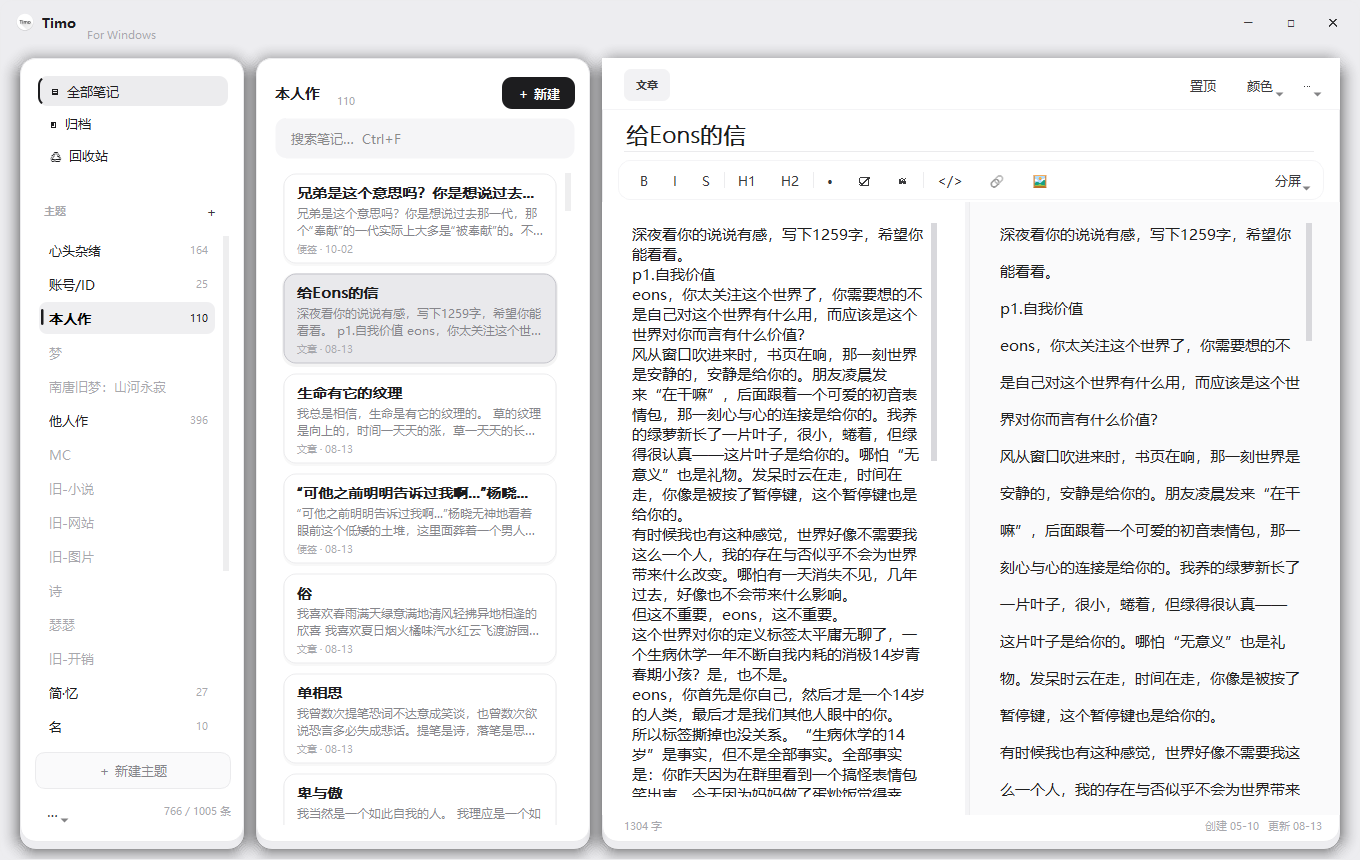
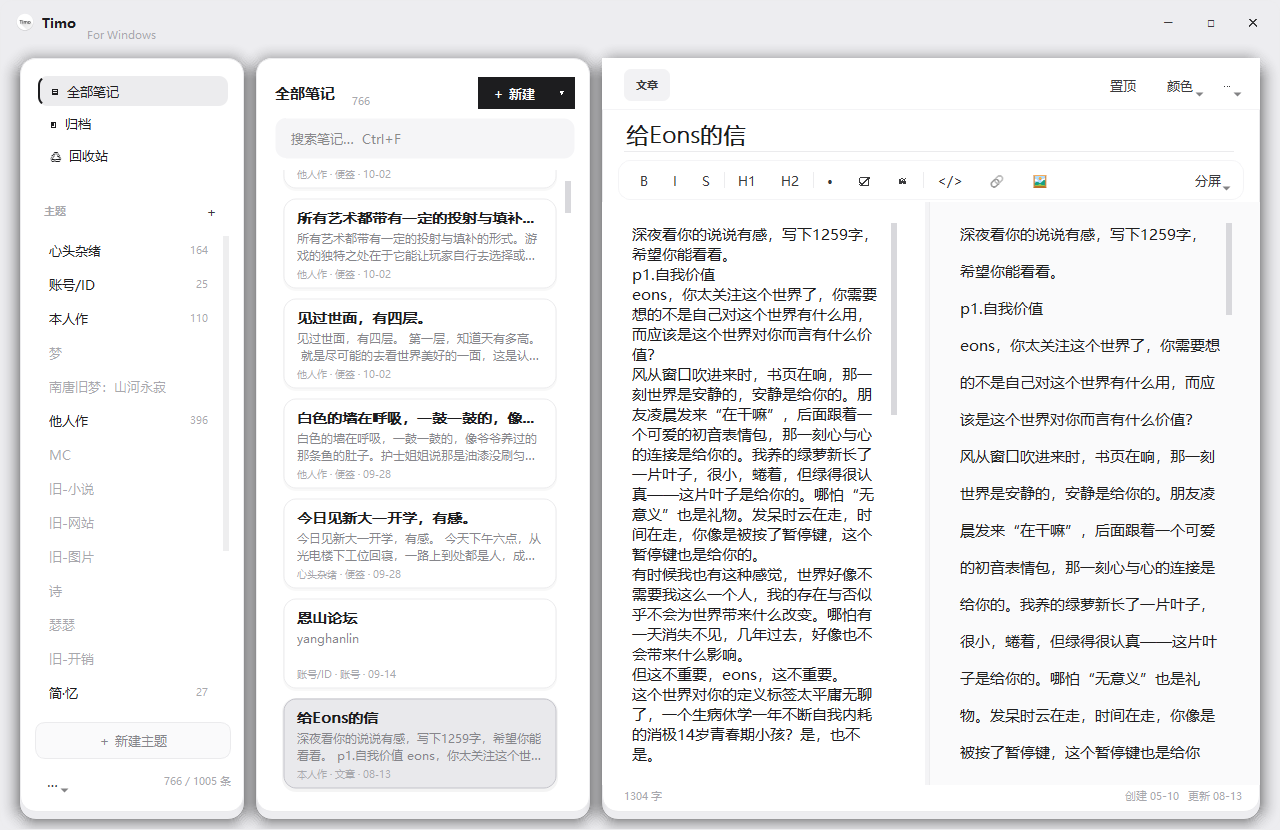
修复：切换视图后列表回到顶部、空状态清空底部字数与时间；更新 README 截图

diff --git a/tools/shot-docs.py b/tools/shot-docs.py
@@ -1,0 +1,41 @@
+"""生成 README 用的界面截图（需要本机有示例数据）。"""
+import sys
+from PyQt5.QtCore import Qt, QTimer
+from PyQt5.QtWidgets import QApplication
+
+sys.path.insert(0, ".")
+from timodesk.store import Library
+from timodesk.ui.theme import app_qss
+from timodesk.ui.main_window import MainWindow
+
+QApplication.setAttribute(Qt.AA_EnableHighDpiScaling, True)
+app = QApplication(sys.argv)
+app.setStyle("Fusion")
+app.setStyleSheet(app_qss())
+lib = Library(r"D:/桌面/Timo For Windows/Data").load()
+w = MainWindow(lib)
+w.resize(1280, 830)
+w.show()
+
+TARGET = "d072305b-afd5-4cb2-9363-901070a7e551"
+
+
+def pick():
+    w.select_nav("all")
+    for i in range(w.note_list.count()):
+        if w.note_list.item(i).data(Qt.UserRole) == TARGET:
+            w.note_list.setCurrentRow(i)
+            break
+
+
+def archived():
+    w.select_nav("archived")
+
+
+QTimer.singleShot(500, pick)
+QTimer.singleShot(1500, lambda: w.grab().save("docs/screenshot-main.png"))
+QTimer.singleShot(1700, archived)
+QTimer.singleShot(2600, lambda: w.grab().save("docs/screenshot-archived.png"))
+QTimer.singleShot(2800, app.quit)
+app.exec_()
+print("saved")

diff --git a/timodesk/ui/editor.py b/timodesk/ui/editor.py
@@ -557,6 +557,8 @@ class NoteEditor(QWidget):
             self.stack.setCurrentWidget(self.page_empty)
             self.title_wrap.setVisible(False)
             self.top_bar.setVisible(False)
+            self.word_label.setText("")
+            self.time_label.setText("")
             self._loading = False
             return
 

diff --git a/timodesk/ui/main_window.py b/timodesk/ui/main_window.py
@@ -481,6 +481,7 @@ class MainWindow(QMainWindow):
             self.note_list.blockSignals(True)
             self.note_list.setCurrentRow(-1)
             self.note_list.blockSignals(False)
+            self.note_list.scrollToTop()
             self.editor.set_note(None)
 
         if animate and notes:
